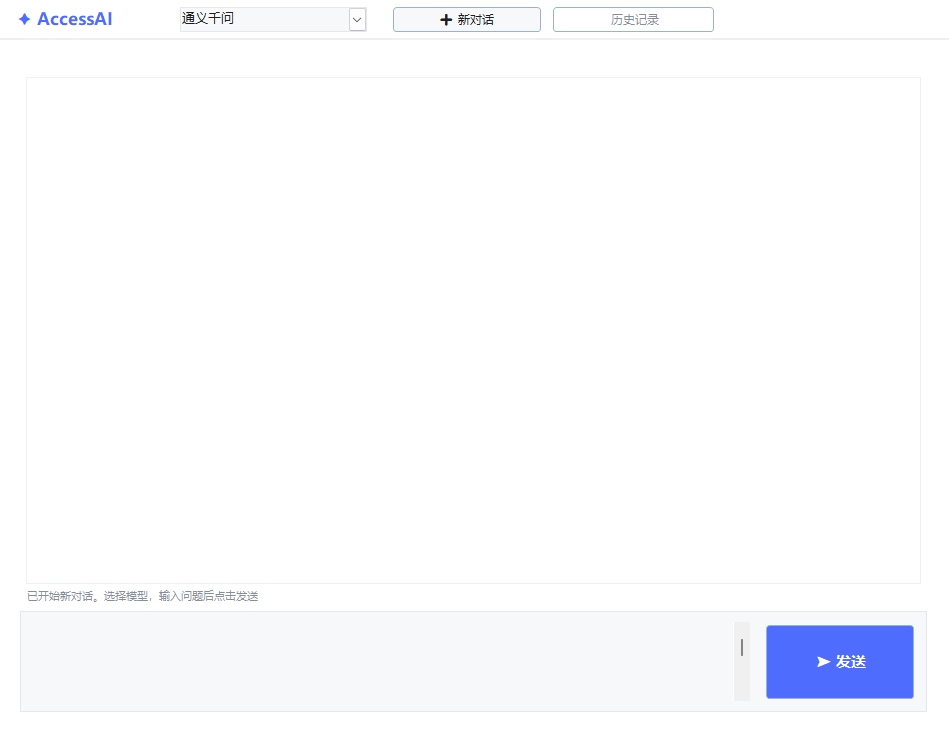
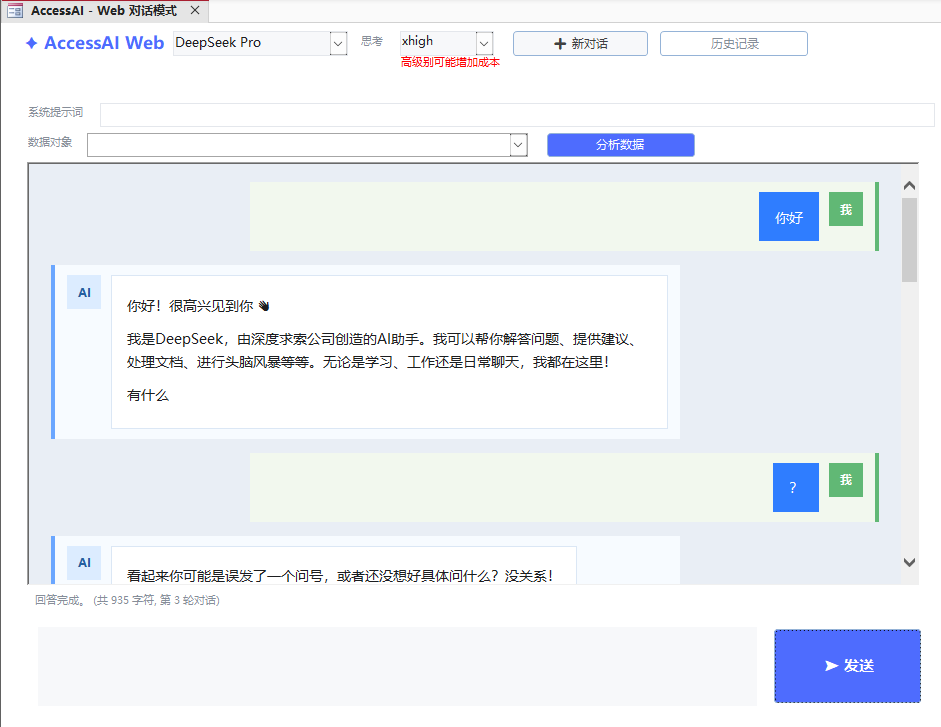
更新了一些大模型的配置增加了思考的能力，增加了一个LICENSE文件，更新了README.md文件。

diff --git a/README.md b/README.md
@@ -4,7 +4,7 @@
 
 **让 Microsoft Access 无缝对接 AI 大模型的开源 VBA 工具库**
 
-> 在 Access 中一键调用 DeepSeek、通义千问、文心一言、Kimi 等 AI 大模型，支持流式输出、Markdown 渲染、打字机效果，开箱即用。
+> 在 Access 中一键调用 DeepSeek、通义千问、文心一言、Kimi、OpenAI、Gemini、GLM、豆包、腾讯混元、讯飞星火等 AI 大模型，支持流式输出、Markdown 渲染、打字机效果，开箱即用。
 
 ![Access](https://img.shields.io/badge/Microsoft%20Access-2010%2B-green)
 ![VBA](https://img.shields.io/badge/VBA-7.x-blue)
@@ -13,6 +13,9 @@
 ![Qwen](https://img.shields.io/badge/AI-通义千问-blue)
 ![ERNIE](https://img.shields.io/badge/AI-文心一言-red)
 ![Kimi](https://img.shields.io/badge/AI-Kimi-orange)
+![OpenAI](https://img.shields.io/badge/AI-OpenAI-black)
+![Gemini](https://img.shields.io/badge/AI-Gemini-4285F4)
+![GLM](https://img.shields.io/badge/AI-GLM-00A4EF)
 
 ---
 
@@ -22,12 +25,13 @@
 
 ## ✨ 功能特性
 
-- **多模型支持** — 内置 DeepSeek Flash、DeepSeek Pro、通义千问、文心一言、Kimi 等 AI 模型，下拉框一键切换
+- **多模型支持** — 内置 DeepSeek、通义千问、文心一言、Kimi、OpenAI、GLM、Gemini、豆包、腾讯混元、讯飞星火等模型，下拉框一键切换
 - **AI 对话问答** — 在 Access 窗体中直接向 AI 提问，获取智能回答
 - **对话历史记录** — 自动保持对话上下文，AI 能记住之前的对话内容，点击「新对话」重置
 - **历史对话持久化** — 对话记录自动保存至 Access 数据表 `tblChatHistory`，关闭数据库后仍可查阅
 - **历史会话管理** — 通过 `frmChatHistory` 窗体浏览、加载、删除历史会话
 - **系统提示词配置** — 在主窗体中填写 System Prompt，统一控制 AI 的角色、语气和回答规则
+- **思考强度配置** — 支持 `low` / `medium` / `high` / `xhigh` 档位，按需向兼容模型发送 `reasoning_effort` 参数；更高的思考级别可能会增加成本
 - **数据库对象分析** — 选择当前数据库中的表或查询，自动读取字段结构、记录数和样例数据交给 AI 分析
 - **自定义 API 端点** — 支持配置任意 OpenAI 兼容 API，模型下拉框选择「自定义」后填写 URL、Key、模型名称
 - **现代化 UI** — 参考 DeepSeek / Gemini 风格设计，白色背景 + 蓝紫色调，简洁美观
@@ -51,7 +55,7 @@
 | Microsoft Access | 2010 及以上（推荐 2016+） |
 | Windows | 7 及以上（流式输出需 Windows 10 1803+） |
 | VBA 引用 | Microsoft Scripting Runtime |
-| AI API Key | [DeepSeek](https://platform.deepseek.com/)、[通义千问](https://dashscope.console.aliyun.com/)、[文心一言](https://console.bce.baidu.com/qianfan/)、[Kimi](https://platform.moonshot.cn/) 的 API Key（按需配置） |
+| AI API Key | DeepSeek、通义千问、文心一言、Kimi、OpenAI、GLM、Gemini、豆包、腾讯混元、讯飞星火等平台的 API Key（按需配置） |
 
 ## 🚀 快速开始
 
@@ -91,6 +95,27 @@ Private Const WX_MODEL As String = "ernie-4.0-8k"
 Private Const KM_KEY   As String = "你的-Kimi-Key"
 Private Const KM_URL   As String = "https://api.moonshot.cn/v1/chat/completions"
 Private Const KM_MODEL As String = "moonshot-v1-8k"
+
+' OpenAI
+Private Const OA_KEY   As String = "你的-OpenAI-Key"
+Private Const OA_URL   As String = "https://api.openai.com/v1/chat/completions"
+Private Const OA_GPT55_MODEL As String = "gpt-5.5"
+Private Const OA_GPT54_MODEL As String = "gpt-5.4"
+
+' 智谱清言 GLM
+Private Const GLM_KEY  As String = "你的-GLM-Key"
+Private Const GLM_URL  As String = "https://open.bigmodel.cn/api/paas/v4/chat/completions"
+Private Const GLM_FLASH_MODEL As String = "glm-4-flash"
+Private Const GLM_PLUS_MODEL  As String = "glm-4-plus"
+
+' Gemini (OpenAI 兼容接口)
+Private Const GM_KEY   As String = "你的-Gemini-Key"
+Private Const GM_URL   As String = "https://generativelanguage.googleapis.com/v1beta/openai/chat/completions"
+Private Const GM_FLASH_MODEL As String = "gemini-1.5-flash"
+Private Const GM_PRO_MODEL   As String = "gemini-1.5-pro"
+
+' 豆包 / 腾讯混元 / 讯飞星火
+' 继续在 Module_Markdown 的“AI 提供商配置”区域修改对应 KEY、URL、MODEL 即可
 ```
 
 > 💡 只需配置你实际使用的模型的 Key，其他保持默认即可。
@@ -135,7 +160,7 @@ AccessAI/
 | 功能分区 | 说明 |
 |----------|------|
 | Markdown → 富文本 HTML | `MarkdownToRichText()` 将 Markdown 转为 Access 富文本控件支持的 HTML |
-| AI API 调用 (多模型) | 支持 DeepSeek/通义千问/文心一言/Kimi；支持 System Prompt；方案A：`StreamWithCurl` 流式 SSE；方案B：`SyncWithTypewriter` 同步+打字机 |
+| AI API 调用 (多模型) | 支持 DeepSeek/通义千问/文心一言/Kimi/OpenAI/GLM/Gemini/豆包/腾讯混元/讯飞星火；支持 System Prompt 与思考强度 `reasoning_effort`；方案A：`StreamWithCurl` 流式 SSE；方案B：`SyncWithTypewriter` 同步+打字机 |
 | 数据库对象分析 | 读取当前 Access 数据库中的表/查询，生成字段结构、记录数和前 30 行样例数据供 AI 分析 |
 | 对话 UI 模式 | `CreateAIForm` 富文本模式；`CreateAIWebForm` WebBrowser HTML 气泡模式 |
 | 对话历史持久化 | 自动建表 `tblChatHistory`，保存/加载/删除会话记录 |
@@ -173,6 +198,8 @@ SetTextBoxMarkdown Me.txtResult, sMarkdown
 - [x] 通义千问模型支持
 - [x] 文心一言模型支持
 - [x] Kimi 模型支持
+- [x] OpenAI / Gemini / GLM / 豆包 / 腾讯混元 / 讯飞星火 支持
+- [x] 思考强度 `low` / `medium` / `high` / `xhigh` 配置
 - [x] 多模型统一切换界面
 - [x] 对话历史记录
 - [x] 历史对话持久化存储与管理
@@ -223,7 +250,7 @@ SetTextBoxMarkdown Me.txtResult, sMarkdown
 
 **An open-source VBA toolkit that seamlessly connects Microsoft Access to AI large language models.**
 
-> Call DeepSeek, Qwen, ERNIE Bot, Kimi and other AI models directly from Access — with streaming output, Markdown rendering, and typewriter effects, ready to use out of the box.
+> Call DeepSeek, Qwen, ERNIE Bot, Kimi, OpenAI, Gemini, GLM, Doubao, Tencent Hunyuan, iFlytek Spark and other AI models directly from Access — with streaming output, Markdown rendering, and typewriter effects, ready to use out of the box.
 
 ![Access](https://img.shields.io/badge/Microsoft%20Access-2010%2B-green)
 ![VBA](https://img.shields.io/badge/VBA-7.x-blue)
@@ -232,6 +259,9 @@ SetTextBoxMarkdown Me.txtResult, sMarkdown
 ![Qwen](https://img.shields.io/badge/AI-Qwen-blue)
 ![ERNIE](https://img.shields.io/badge/AI-ERNIE-red)
 ![Kimi](https://img.shields.io/badge/AI-Kimi-orange)
+![OpenAI](https://img.shields.io/badge/AI-OpenAI-black)
+![Gemini](https://img.shields.io/badge/AI-Gemini-4285F4)
+![GLM](https://img.shields.io/badge/AI-GLM-00A4EF)
 
 ---
 
@@ -241,12 +271,13 @@ SetTextBoxMarkdown Me.txtResult, sMarkdown
 
 ## ✨ Features
 
-- **Multi-Model Support** — Built-in support for DeepSeek Flash, DeepSeek Pro, Alibaba Qwen, Baidu ERNIE, and Kimi — switch models via dropdown
+- **Multi-Model Support** — Built-in support for DeepSeek, Alibaba Qwen, Baidu ERNIE, Kimi, OpenAI, GLM, Gemini, Doubao, Tencent Hunyuan, and iFlytek Spark — switch models via dropdown
 - **AI Q&A Chat** — Ask AI questions directly from an Access form and get intelligent answers
 - **Conversation History** — Automatically maintains conversation context so the AI remembers previous exchanges; click "New Chat" to reset
 - **Persistent History Storage** — Conversations are automatically saved to an Access table `tblChatHistory` and persist across sessions
 - **History Session Management** — Browse, load, and delete historical sessions via the `frmChatHistory` form
 - **System Prompt Configuration** — Set a System Prompt in the main form to control the AI role, tone, and response rules
+- **Reasoning Effort Configuration** — Supports `low` / `medium` / `high` / `xhigh` and sends `reasoning_effort` to compatible models when selected; higher reasoning levels may increase cost
 - **Database Object Analysis** — Select a table or query from the current database and send schema, row count, and sample rows to AI for analysis
 - **Custom API Endpoint** — Configure any OpenAI-compatible API by selecting “Custom” from the model dropdown and entering URL, Key, and Model name
 - **Modern UI** — DeepSeek / Gemini-inspired design with clean white background and blue-purple accents
@@ -270,7 +301,7 @@ SetTextBoxMarkdown Me.txtResult, sMarkdown
 | Microsoft Access | 2010 or later (2016+ recommended) |
 | Windows | 7 or later (streaming requires Windows 10 1803+) |
 | VBA Reference | Microsoft Scripting Runtime |
-| AI API Key | API Keys from [DeepSeek](https://platform.deepseek.com/), [Alibaba Qwen](https://dashscope.console.aliyun.com/), [Baidu ERNIE](https://console.bce.baidu.com/qianfan/), [Kimi](https://platform.moonshot.cn/) (configure as needed) |
+| AI API Key | API Keys from DeepSeek, Alibaba Qwen, Baidu ERNIE, Kimi, OpenAI, GLM, Gemini, Doubao, Tencent Hunyuan, iFlytek Spark, or another OpenAI-compatible provider (configure as needed) |
 
 ## 🚀 Quick Start
 
@@ -310,6 +341,27 @@ Private Const WX_MODEL As String = "ernie-4.0-8k"
 Private Const KM_KEY   As String = "your-Kimi-Key"
 Private Const KM_URL   As String = "https://api.moonshot.cn/v1/chat/completions"
 Private Const KM_MODEL As String = "moonshot-v1-8k"
+
+' OpenAI
+Private Const OA_KEY   As String = "your-OpenAI-Key"
+Private Const OA_URL   As String = "https://api.openai.com/v1/chat/completions"
+Private Const OA_GPT55_MODEL As String = "gpt-5.5"
+Private Const OA_GPT54_MODEL As String = "gpt-5.4"
+
+' GLM (BigModel)
+Private Const GLM_KEY  As String = "your-GLM-Key"
+Private Const GLM_URL  As String = "https://open.bigmodel.cn/api/paas/v4/chat/completions"
+Private Const GLM_FLASH_MODEL As String = "glm-4-flash"
+Private Const GLM_PLUS_MODEL  As String = "glm-4-plus"
+
+' Gemini (OpenAI-compatible endpoint)
+Private Const GM_KEY   As String = "your-Gemini-Key"
+Private Const GM_URL   As String = "https://generativelanguage.googleapis.com/v1beta/openai/chat/completions"
+Private Const GM_FLASH_MODEL As String = "gemini-1.5-flash"
+Private Const GM_PRO_MODEL   As String = "gemini-1.5-pro"
+
+' Doubao / Tencent Hunyuan / iFlytek Spark
+' Update the corresponding KEY, URL, and MODEL constants in the AI provider configuration area of Module_Markdown.
 ```
 
 > 💡 You only need to configure the Key for the model(s) you actually use.
@@ -354,7 +406,7 @@ AccessAI/
 | Section | Description |
 |---------|-------------|
 | Markdown → Rich Text HTML | `MarkdownToRichText()` converts Markdown to HTML supported by Access Rich Text controls |
-| AI API Calls (Multi-Model) | Supports DeepSeek/Qwen/ERNIE/Kimi; supports System Prompt; Plan A: `StreamWithCurl` for SSE streaming; Plan B: `SyncWithTypewriter` for sync + typewriter |
+| AI API Calls (Multi-Model) | Supports DeepSeek/Qwen/ERNIE/Kimi/OpenAI/GLM/Gemini/Doubao/Tencent Hunyuan/iFlytek Spark; supports System Prompt and `reasoning_effort`; Plan A: `StreamWithCurl` for SSE streaming; Plan B: `SyncWithTypewriter` for sync + typewriter |
 | Database Object Analysis | Reads tables/queries from the current Access database and sends schema, row count, and the first 30 sample rows to AI |
 | Chat UI Modes | `CreateAIForm` for Rich Text mode; `CreateAIWebForm` for WebBrowser HTML bubble mode |
 | Persistent Chat History | Auto-creates `tblChatHistory` table; saves/loads/deletes session records |
@@ -392,6 +444,8 @@ SetTextBoxMarkdown Me.txtResult, sMarkdown
 - [x] Alibaba Qwen model support
 - [x] Baidu ERNIE model support
 - [x] Kimi model support
+- [x] OpenAI / Gemini / GLM / Doubao / Tencent Hunyuan / iFlytek Spark support
+- [x] Reasoning effort `low` / `medium` / `high` / `xhigh` configuration
 - [x] Unified multi-model switching UI
 - [x] Conversation history
 - [x] Persistent history storage & session management